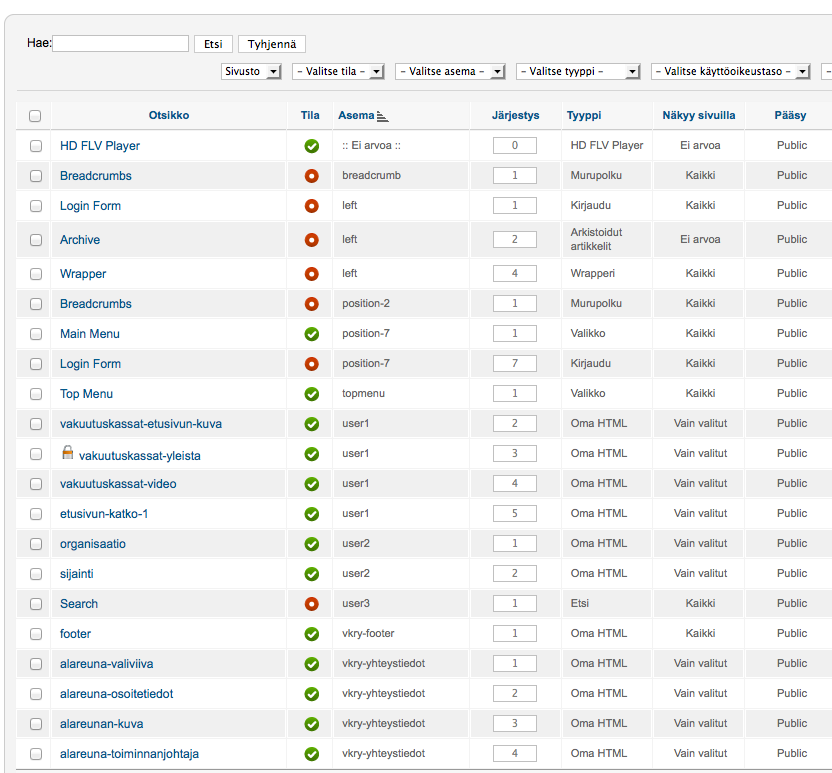
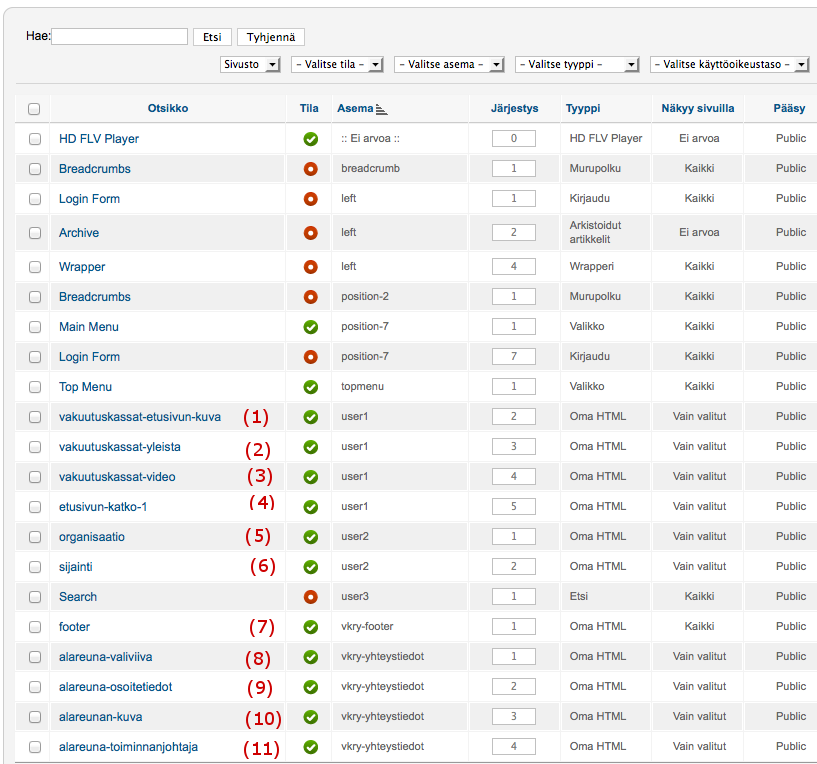
Muutoksia.

diff --git a/vkry/pages/etusivun-perustiedot.md b/vkry/pages/etusivun-perustiedot.md
@@ -30,43 +30,53 @@ Seuraavat kohdat kuitenkin liittyvät sisältöön, ja ovat ylläpidettävissä.
 </figure>
 
 
-__(1) vakuutuskassat-yleista__
+__(1) vakuutuskassat-etusivun-kuva__
+
+*   sisältää etusivulla alussa vas.puolella olevan (ison) kuvan
+
+
+__(2) vakuutuskassat-yleista__
 
 *   tämä moduuli näyttää etusivun alussa kuvan oik.puolella olevan tekstilaatikon.
 
-__(2) etusivun-katko-1__
+__(3) vakuutuskassat-video__
 
-*   tekee pienen varjostetun väliviivan etusivulle (kuvan ja alkutekstin jälkeen).
+*   tämä moduuli näyttää etusivulla olevan linkin esittelyvideoon
 
-__(3) organisaatio__
+__(4) etusivun-katko-1__
 
-*   sisältää tekstin joka muodostaa etusivun vaaleansinisen tekstilaatikon "ORGANISAATIO".
+*   tekee pienen varjostetun väliviivan etusivulle (kuvan ja alkutekstin jälkeen)
 
-__(4) sijainti__
+__(5) organisaatio__
 
-*   sisältää tekstin ja kuvan, josta muodostuu etusivun pieni laatikko "SIJAINTI".
+*   sisältää tekstin joka muodostaa etusivun vaaleansinisen tekstilaatikon "ORGANISAATIO"
 
-__(5) alareuna-valiviiva__
+__(6) sijainti__
 
-*   tekee taas pienen varjostetun väliviivan erottaman Sijainti-laatikon alapuolella olevat osiot ylemmistä.
+*   sisältää tekstin ja kuvan, josta muodostuu etusivun pieni laatikko "SIJAINTI"
 
-__(6) alareuna-osoitetiedot__
+__(7) footer__
 
-*   sisältää tekstin joka näytetään etusivun alareunassa vas.puolella. Tällä hetkellä siellä on Vakuutuskassat ry:n osoitetiedot.
+*   sisältää tekstin joka näytetään jokaisen sivun alareunassa (musta laatikko)
+*   sis. jonkun lauseen tekijänoikeuksien suojaamisesta tai muuta yleistä
 
-__(7) alareuna-kuva__
+__(8) alareuna-valiviiva__
+
+*   tekee taas pienen varjostetun väliviivan erottaman Sijainti-laatikon alapuolella olevat osiot ylemmistä
+
+__(9) alareuna-osoitetiedot__
+
+*   sisältää tekstin joka näytetään etusivun alareunassa vas.puolella
+*   tällä hetkellä siellä on Vakuutuskassat ry:n osoitetiedot
+
+__(10) alareuna-kuva__
 
 *   sisältää pienen kuvan joka näytettän etusivun alareunassa keskellä
 
-__(8) alareuna-toiminnanjohtaja__
+__(11) alareuna-toiminnanjohtaja__
 
-*   sisältää tekstin joka näytetään etusivun alareunassa oik.puolella. Tällä hetkellä siellä on toiminnanjohtajan yhteystiedot.
-
-__(9) footer__
-
-*   sisältää tekstin joka näytetään jokaisen sivun alareunassa (musta laatikko).
-*   sis. jonkun lauseen tekijänoikeuksien suojaamisesta tai muuta yleistä
-
+*   sisältää tekstin joka näytetään etusivun alareunassa oik.puolella
+*   tällä hetkellä siellä on toiminnanjohtajan yhteystiedot
 
 
 
@@ -76,15 +86,15 @@ Kaikki moduulit avataan valitsemalla nimi-tieto.
 
 Jokaisessa on myös muutamia perustietoja, joihin ei kannata tehdä muutoksia.
 
-Sensijaan alareunassa näkyy tekstieditori, jolla sisältöä voidaan tarvittaessa muuttaa. Muutosten tekeminen noudattaa samoja ohjeita jotka löytyy sivulta [wiki:TekstieditorinKaytto Tekstieditorin käyttäminen].
+Sensijaan alareunassa näkyy tekstieditori, jolla sisältöä voidaan tarvittaessa muuttaa.
 
-----
+Muutosten tekeminen noudattaa samoja ohjeita jotka löytyy sivulta [Tekstieditorin käyttäminen][10].
 
-??????
 
 
 
 [1]: kuvat/kuva57.png "Ruutumalli"
 [2]: kuvat/kuva58.png "Ruutumalli"
+[10]: pages/tekstieditorin-kaytto.md
 
 
